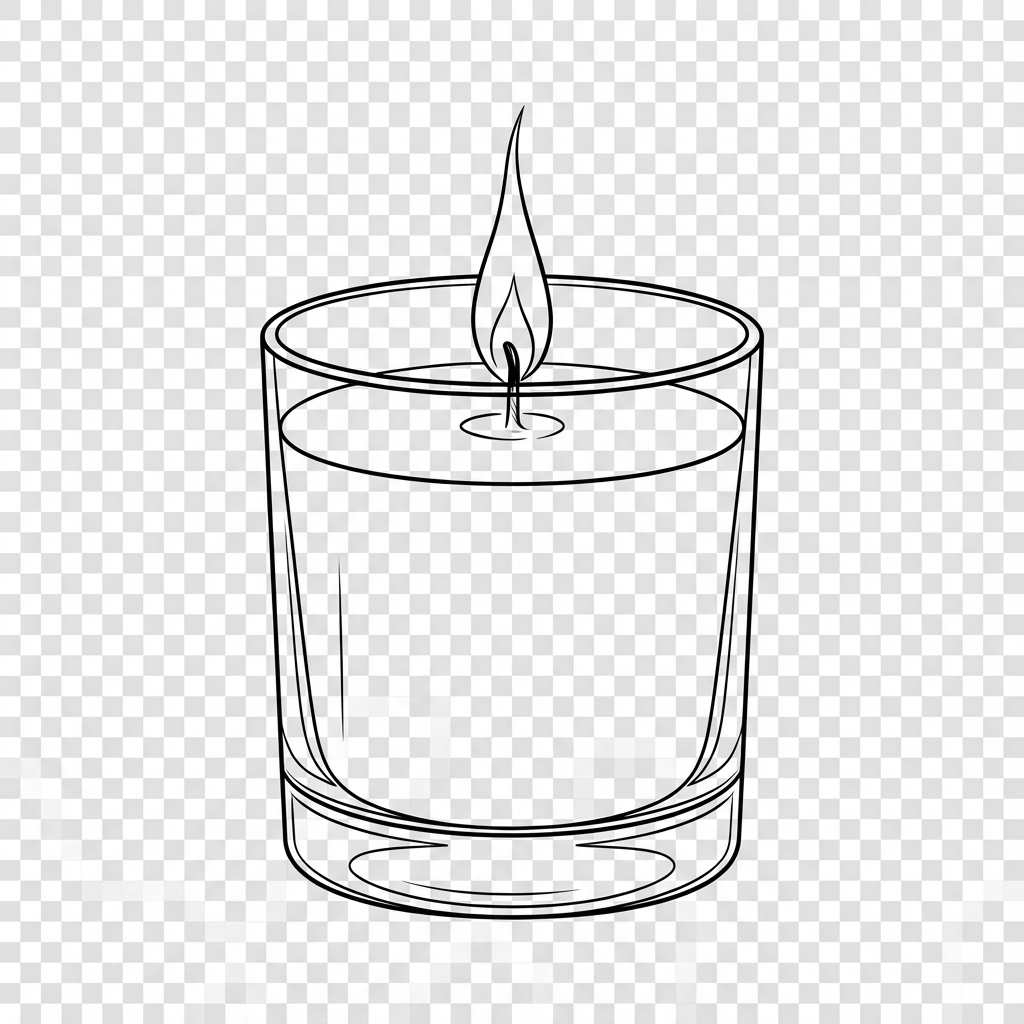
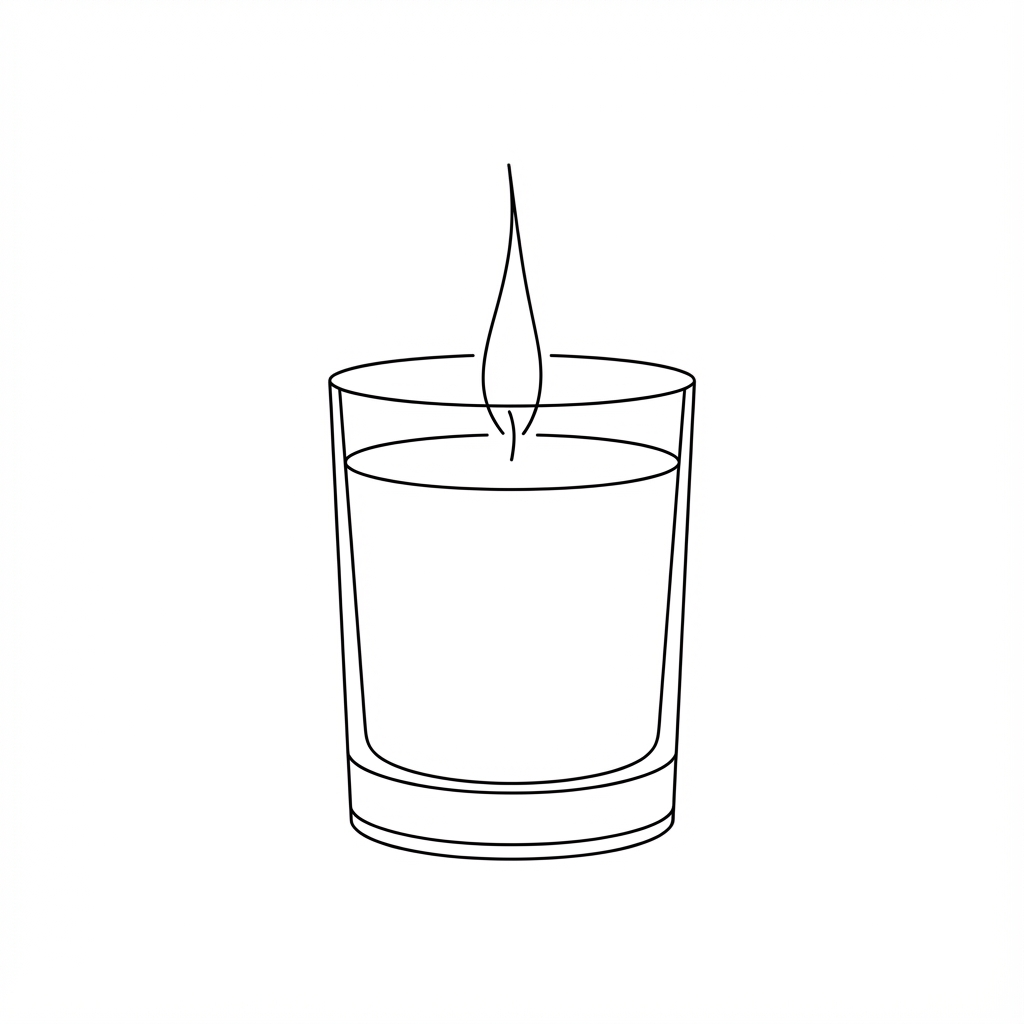
Fix Explore visual transparency and size

diff --git a/components/explore/ExploreQuiz.tsx b/components/explore/ExploreQuiz.tsx
@@ -175,13 +175,13 @@ export default function ExploreQuiz() {
                             ))}
                         </div>
 
-                        <div className="mt-12 flex justify-center opacity-80">
+                        <div className="mt-12 w-full max-w-lg mx-auto flex justify-center opacity-80">
                             <Image
                                 src="/brand-symbol.png"
                                 alt="Elemental Symbol"
-                                width={140}
-                                height={140}
-                                className="object-contain"
+                                width={500}
+                                height={500}
+                                className="object-contain w-full h-auto mix-blend-multiply"
                             />
                         </div>
                     </motion.div>
